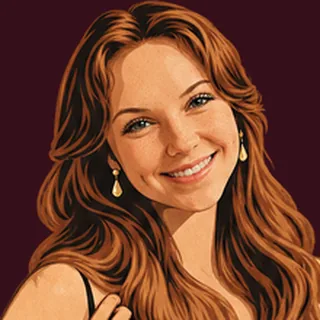
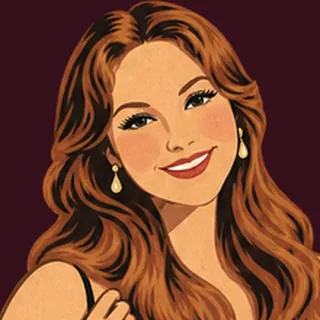
Guest look-alikes: Heston's own drawing; Miranda restyled to match the cast
Claude-Session: https://claude.ai/code/session_011n5gPsd4ZZgTYeVzG34PYX

diff --git a/convex/figures.ts b/convex/figures.ts
@@ -16,11 +16,12 @@ export const FIGURE_KEYS = FIGURE_SETS.flatMap((s) => s.keys);
 /** This party's look-alikes (Heston, Oct 14): drawings of the real guests. A game with
  *  `lookalikes` on shows them in their own "Tonight's guests" row, each labeled with the person's
  *  name (honor system: anyone could tap one, the label says whose it is). A main-cast drawing can
- *  stand in for someone (curls is Heston's until his own look-alike is final): in a look-alike game
- *  it moves up to this row, and in other games it's a regular character again.
+ *  also stand in for someone: in a look-alike game it moves up to this row, and in other games
+ *  it's a regular character again. (Curls and sweetheart were Heston's and Emily's stand-ins until
+ *  their own look-alikes were drawn.)
  *  Add a guest: art in public/art(/faces), then a line here. */
 export const LOOKALIKES: { key: string; name: string }[] = [
-  { key: "curls", name: "Heston" },
+  { key: "heston", name: "Heston" },
   { key: "emily", name: "Emily" },
   { key: "miranda", name: "Miranda" },
   { key: "sam", name: "Sam" },
